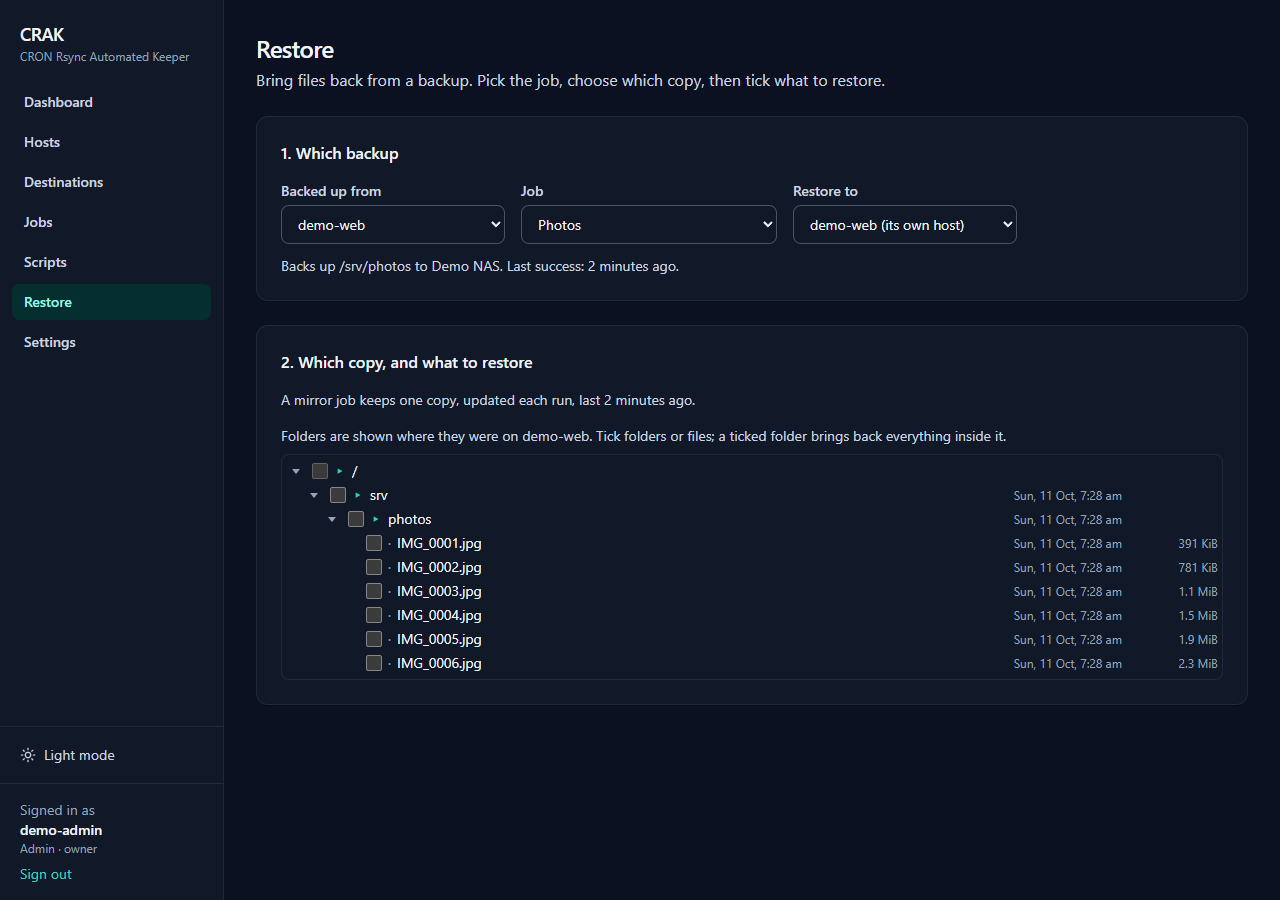
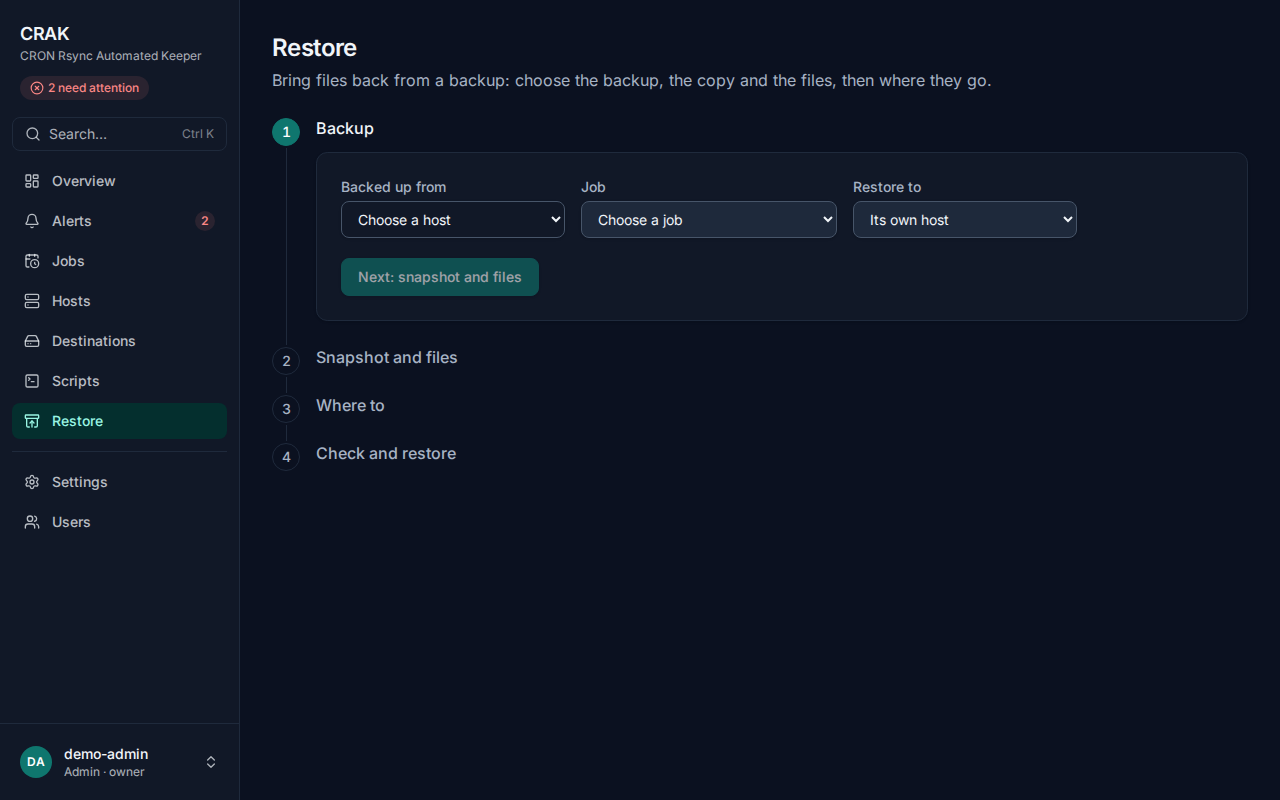
CRAK demo: refresh for 0.11.0, new screenshots and features
Clean 0.11.0 install with three demo hosts and a demo NAS, and 29 days
of simulated history. The screenshots cover the 0.11 pages: row menus,
bulk actions, filters and saved views, the command palette, keyboard
shortcuts, the six Settings tabs and the Users page.

The README describes 0.11 and the captions match what each picture
shows. Notification channels and log forwarding are not set up in the
demo, so those screens show their empty states.

diff --git a/README.md b/README.md
@@ -4,7 +4,7 @@
 
 If you run a few Linux boxes and a NAS, you probably have rsync scripts in cron somewhere, a few of them failing silently. CRAK keeps the scripts on each machine (so backups still run when CRAK is down), and gives you one place to see every backup, every result and every restore.
 
-These screenshots come from a test setup with made-up hosts (`demo-web`, `demo-pi`, `demo-nas`), a made-up destination (`Demo NAS`), made-up people (`maria` and `sam`) and made-up data. They're from CRAK **0.7.0**, in dark mode (the default).
+These screenshots come from a clean CRAK **0.11.0** install with made-up hosts (`demo-web`, `demo-pi`, `demo-nas`), a made-up destination (`Demo NAS`), made-up people (`maria`, `sam` and `pat`, with `demo-admin` as the owner) and made-up data. They're in dark mode (the default).
 
 ---
 
@@ -28,7 +28,16 @@ These screenshots come from a test setup with made-up hosts (`demo-web`, `demo-p
 - **Dry run** shows what would be copied, changed or deleted. It writes nothing except the job's empty folder on the destination.
 - **Job groups** back up the same folder on several hosts with one definition, starting them a few minutes apart.
 - **Host-to-host** copies, one-way, into a folder on another host.
+- **Revisions**: every change to a job, who made it and what changed, with **Roll back to this revision**.
 - **Pause** a job, a host, a destination, a group or everything: for 1, 4 or 24 hours, until you resume, or until a time you choose.
+
+### Working with many jobs (new in 0.11)
+- **A row menu on every row.** Each list row has a **⋯** button, and right-clicking the row opens the same menu. It holds the actions of the object, for your role.
+- **Bulk actions on jobs.** Tick several jobs and run them, verify them, pause, resume, enable or disable them together. A confirm lists what each job will do and what it will skip, and the results come back job by job.
+- **Search and filters** on the jobs, hosts, destinations and scripts lists. The filters are in the address, so a link shows the same list.
+- **Saved views** for the filters you use most, kept per user on the server and optionally the default for their list.
+- **Command palette** (Ctrl+K): jump to any page, job, host or destination, or run an action on it, through the same confirm as its page.
+- **Keyboard shortcuts** for the common moves (`?` lists them), switchable per user.
 
 ### Scheduled tasks and the script library
 - A library of scripts with versions, variables and defaults.
@@ -47,10 +56,11 @@ These screenshots come from a test setup with made-up hosts (`demo-web`, `demo-p
 
 ### Users and sign-in
 - Several people can sign in, with three roles: **Viewer** (sees everything, changes nothing), **Operator** (also runs, verifies, pauses and handles alerts) and **Admin** (changes anything, restores files, manages users).
+- A **Users** page for Admins, with search, filters, and each person's details, role, two-factor state and sign-in method.
 - **Two-factor sign-in** with an authenticator app, with recovery codes.
 - **Single sign-on** through an identity provider (OpenID Connect), with the provider's groups mapped to CRAK's roles.
 - **Personal API tokens** for scripts and tools, each with a role and an expiry.
-- An **audit log** of every change and sign-in, with who made it and from where, kept for a year.
+- An **audit log** of every change and sign-in, with who made it and from where, kept for a year. Filter it by action, by person and by date.
 
 ### Log forwarding
 - The audit log, and optionally alerts and run results, go to a **syslog** server (RFC 5424, over UDP, TCP or TLS) or to a **SIEM** over HTTPS, as JSON, NDJSON or Splunk HEC.
@@ -70,7 +80,7 @@ These screenshots come from a test setup with made-up hosts (`demo-web`, `demo-p
 - **Replace with…** moves a dead host's jobs to its replacement, with their history, notes, pauses and destination folders.
 
 ### Operations and settings
-- **Settings** in five groups: backups, notifications and alerts, integrations (log forwarding, Prometheus, export and import), users, and your account (two-factor sign-in, password, API tokens and the audit log).
+- **Settings** in six sections: General (run history, snapshots, CRAK's own backup), Notifications, Sign-in, Integrations (log forwarding, Prometheus, export and import), Audit log, and Your account (appearance, password, two-factor sign-in, API tokens, keyboard shortcuts and saved views). Each section has its own address, so a link opens it.
 - **YAML export and import** of jobs, groups, destinations and scripts, so a job set can live in Git.
 - **CRAK backs itself up**, on a schedule, to a destination you choose.
 - **HTTPS** through a reverse proxy, with a security guide.
@@ -109,10 +119,6 @@ Every machine running the CRAK agent, with its status, OS, agent version, and ho
 
 Each host shows what it's ready for, the cron file and job scripts CRAK has put on it, and any cron jobs CRAK didn't create. Those can be imported with one click.
 
-![Replace with…](screenshots/20-host-replace.png)
-
-**Replace with…** moves every job to the machine that replaced a dead one. The jobs keep their history, notes, pauses and destination folders, so the backups carry on where they were.
-
 ![Second host](screenshots/22-host-pi.png)
 
 ### Destinations
@@ -137,7 +143,7 @@ Snapshot jobs list the snapshot each run made.
 
 ![Pause](screenshots/23-job-pause.png)
 
-**Pause…** stops a job's scheduled runs until you resume it. **Run now** still works while paused.
+**Pause…** stops a job's scheduled runs until you resume it, or until the time you choose. **Run now** still works while paused.
 
 ![Job builder](screenshots/08-job-builder.png)
 
@@ -146,6 +152,28 @@ The builder has a live preview. You tick folders in a tree, choose the switches 
 ![Job script](screenshots/09-job-script.png)
 
 Every job's script is readable. If you tweak it by hand, CRAK keeps a revision for each change.
+
+### Working with many jobs (0.11)
+
+![Row menu on the jobs list](screenshots/32-jobs-row-menu.png)
+
+Each row's **⋯** menu offers that job's actions for your role: **Run now**, **Verify now**, **Pause…**, **Restore**, **Edit**, and **Disable** or **Delete job…** at the bottom. Right-clicking the row gives the same menu.
+
+![Bulk selection](screenshots/33-jobs-bulk-select.png)
+
+Tick two jobs and a bar appears above the list with the actions for both. The confirm lists what each job will do and what it will skip, and the results come back job by job.
+
+![Filters and saved views](screenshots/34-jobs-filters-views.png)
+
+The search box and the menus of tick boxes narrow the list, and **Views** keeps the filters you use, optionally as the default for the list.
+
+![Command palette](screenshots/35-command-palette.png)
+
+**Ctrl+K** finds anything: here, the job `photos`. **Tab** lists its actions, and the action runs through the same confirm as its page.
+
+![Keyboard shortcuts](screenshots/36-keyboard-shortcuts.png)
+
+**?** lists the keyboard shortcuts. Each user can switch them off under Your account.
 
 ### Job groups
 
@@ -177,43 +205,59 @@ Every run has a result, statistics, and the full log, which you can search or do
 
 A job running as `archive` can't read a root-only file. The run names the file and says what to do, instead of leaving you to decode exit code 23.
 
-![Run as a missing user](screenshots/21-job-old-projects.png)
+![Held-back job](screenshots/21-job-legacy-sync.png)
 
-If a job's "run as" user doesn't exist on its host, CRAK holds that one job back, raises an alert, and shows why at the top of the job page. The host's other jobs still deploy.
+A job whose "run as" user has been removed from its host is held back: CRAK raises an alert and shows why at the top of the job page. The host's other jobs still deploy.
 
 ### Restore
 
 ![Restore](screenshots/13-restore.png)
 
-Pick the host, the job and the copy, then tick what to restore from the tree of where the files were.
+The restore takes four steps: choose the backup and copy, tick the files from the tree of where they were, choose where they go, then check and restore.
 
 ![Restore to another host](screenshots/19-restore-to-host.png)
 
-**Restore to** can be another machine, such as the replacement for a dead one. That machine reads the backup with its own key, and the page warns if the key isn't on the destination yet.
+Here, the first step is open: the backup is the `app-data` snapshot from `demo-web`, and the tree shows the folder as it was on that machine. The next step is **Where to**, which can be another machine, such as the replacement for a dead one. That machine reads the backup with its own key, and the page warns if the key isn't on the destination yet.
+
+### Alerts
+
+![Alerts](screenshots/31-alerts.png)
+
+Open alerts, failures first. The one here has been acknowledged by the owner, with a note, and assigned to Sam.
 
 ### Settings
 
 ![Settings](screenshots/14-settings.png)
 
-Five groups: backups, notifications and alerts, integrations, users, and your account. The cards below are from the groups opened on their own.
+Settings is in six sections, as tabs along the top, each with its own address. This is **General**, where run history, snapshots to keep and CRAK's own backup are set.
 
 #### Notifications and alerts
 
 ![Notification channels](screenshots/24-settings-notifications.png)
 
-Each channel has its own alerts and its own news setting. This demo has an ntfy channel; **Add** offers Discord, Slack, Microsoft Teams and email too. A channel shows **on**, **off**, **failing** (with the last error, and it keeps trying) or **stopped** (the service said the webhook is gone).
+Each channel has its own alerts and its own news setting. This demo has no channels yet: **Add** offers Discord, Email, Microsoft Teams, ntfy and Slack. A channel shows **on**, **off**, **failing** (with the last error, and it keeps trying) or **stopped** (the service said the webhook is gone). The alert thresholds below it are set for the demo.
 
 #### Integrations
 
 ![Log forwarding](screenshots/25-settings-log-forwarding.png)
 
-Syslog or a SIEM receives the audit log, and optionally alerts and run results, as they happen. This demo sends them to a syslog receiver over UDP.
+Syslog or a SIEM receives the audit log, and optionally alerts and run results, as they happen. This demo has nothing forwarded yet: **Add** offers syslog (over UDP, TCP or TLS) or an HTTP SIEM. Prometheus metrics and the YAML export and import are here too.
 
 #### Users
 
-![Users](screenshots/26-settings-users.png)
+![Users](screenshots/26-users.png)
 
-Everyone who can sign in, with their role. A new person gets a temporary password and must choose their own at first sign-in. **Disable** stops someone signing in without removing their history.
+Everyone who can sign in, with their role, two-factor state and sign-in method. Search and filter the list, and each row's **⋯** menu holds the actions for that person.
+
+![Row menu on a user](screenshots/37-users-row-menu.png)
+
+A person's row menu: their details, editing them, changing their role, resetting their password or two-factor sign-in, and disabling or deleting the account.
+
+![User details](screenshots/38-user-details.png)
+
+The details panel shows the person's email, two-factor and sign-in method, their API tokens, and their most recent audit entries. A new person gets a temporary password and must choose their own at first sign-in.
+
+#### Sign-in
 
 ![Single sign-on](screenshots/27-settings-single-sign-on.png)
 
@@ -229,9 +273,15 @@ Two-factor sign-in with an authenticator app, with 10 single-use recovery codes.
 
 A token for a script or tool, with its own role and expiry. It's shown once when it's made, and an Admin can see and revoke everyone's.
 
+![Saved views](screenshots/39-settings-saved-views.png)
+
+Every saved view you have, for each list, with the filters it holds. Open one to apply it, or delete it.
+
+#### Audit log
+
 ![Audit log](screenshots/30-settings-audit-log.png)
 
-Sign-ins and changes, newest first, kept for a year. Filter by action or by a range of days, and export everything that matches as CSV.
+Sign-ins and changes, newest first, kept for a year. Filter by action, by person or by a range of days, and export everything that matches as CSV.
 
 ---
 
